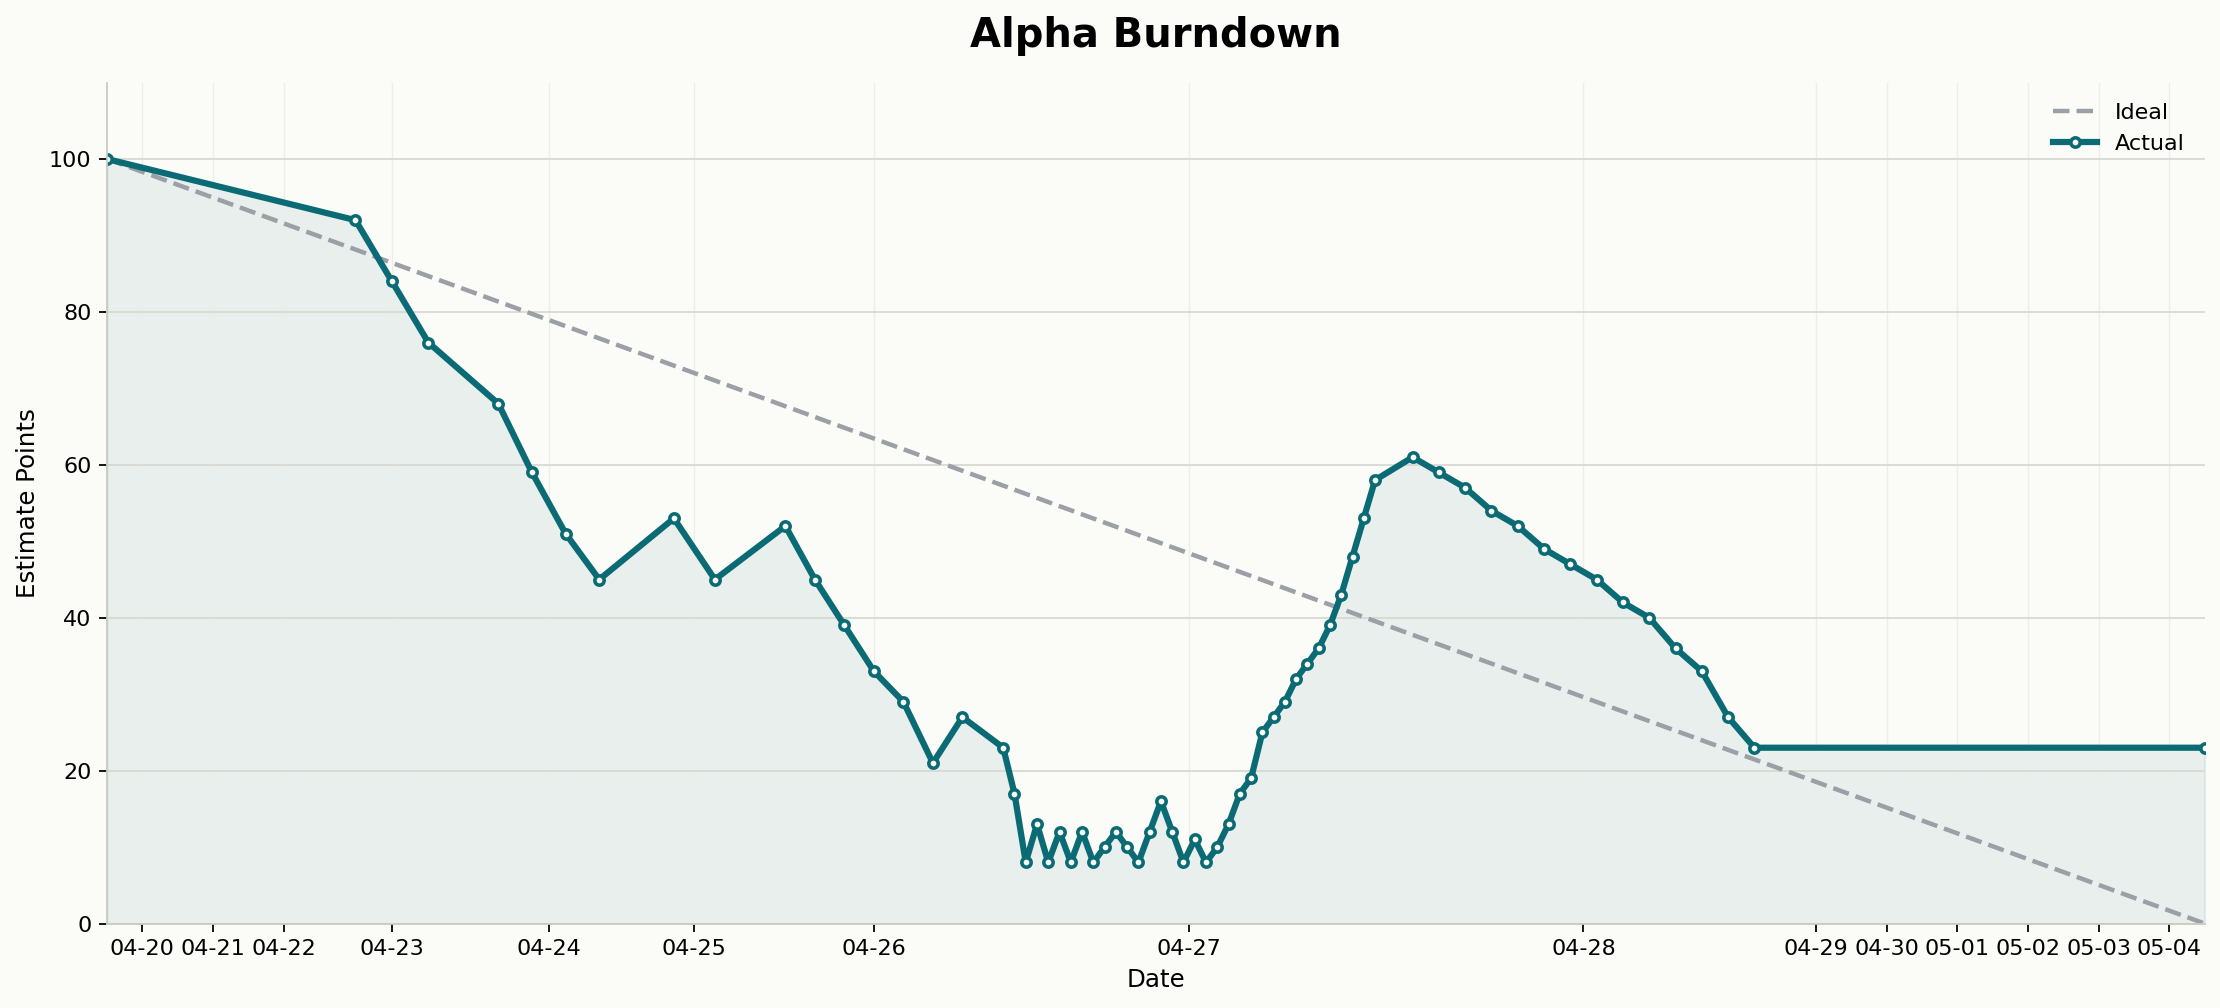
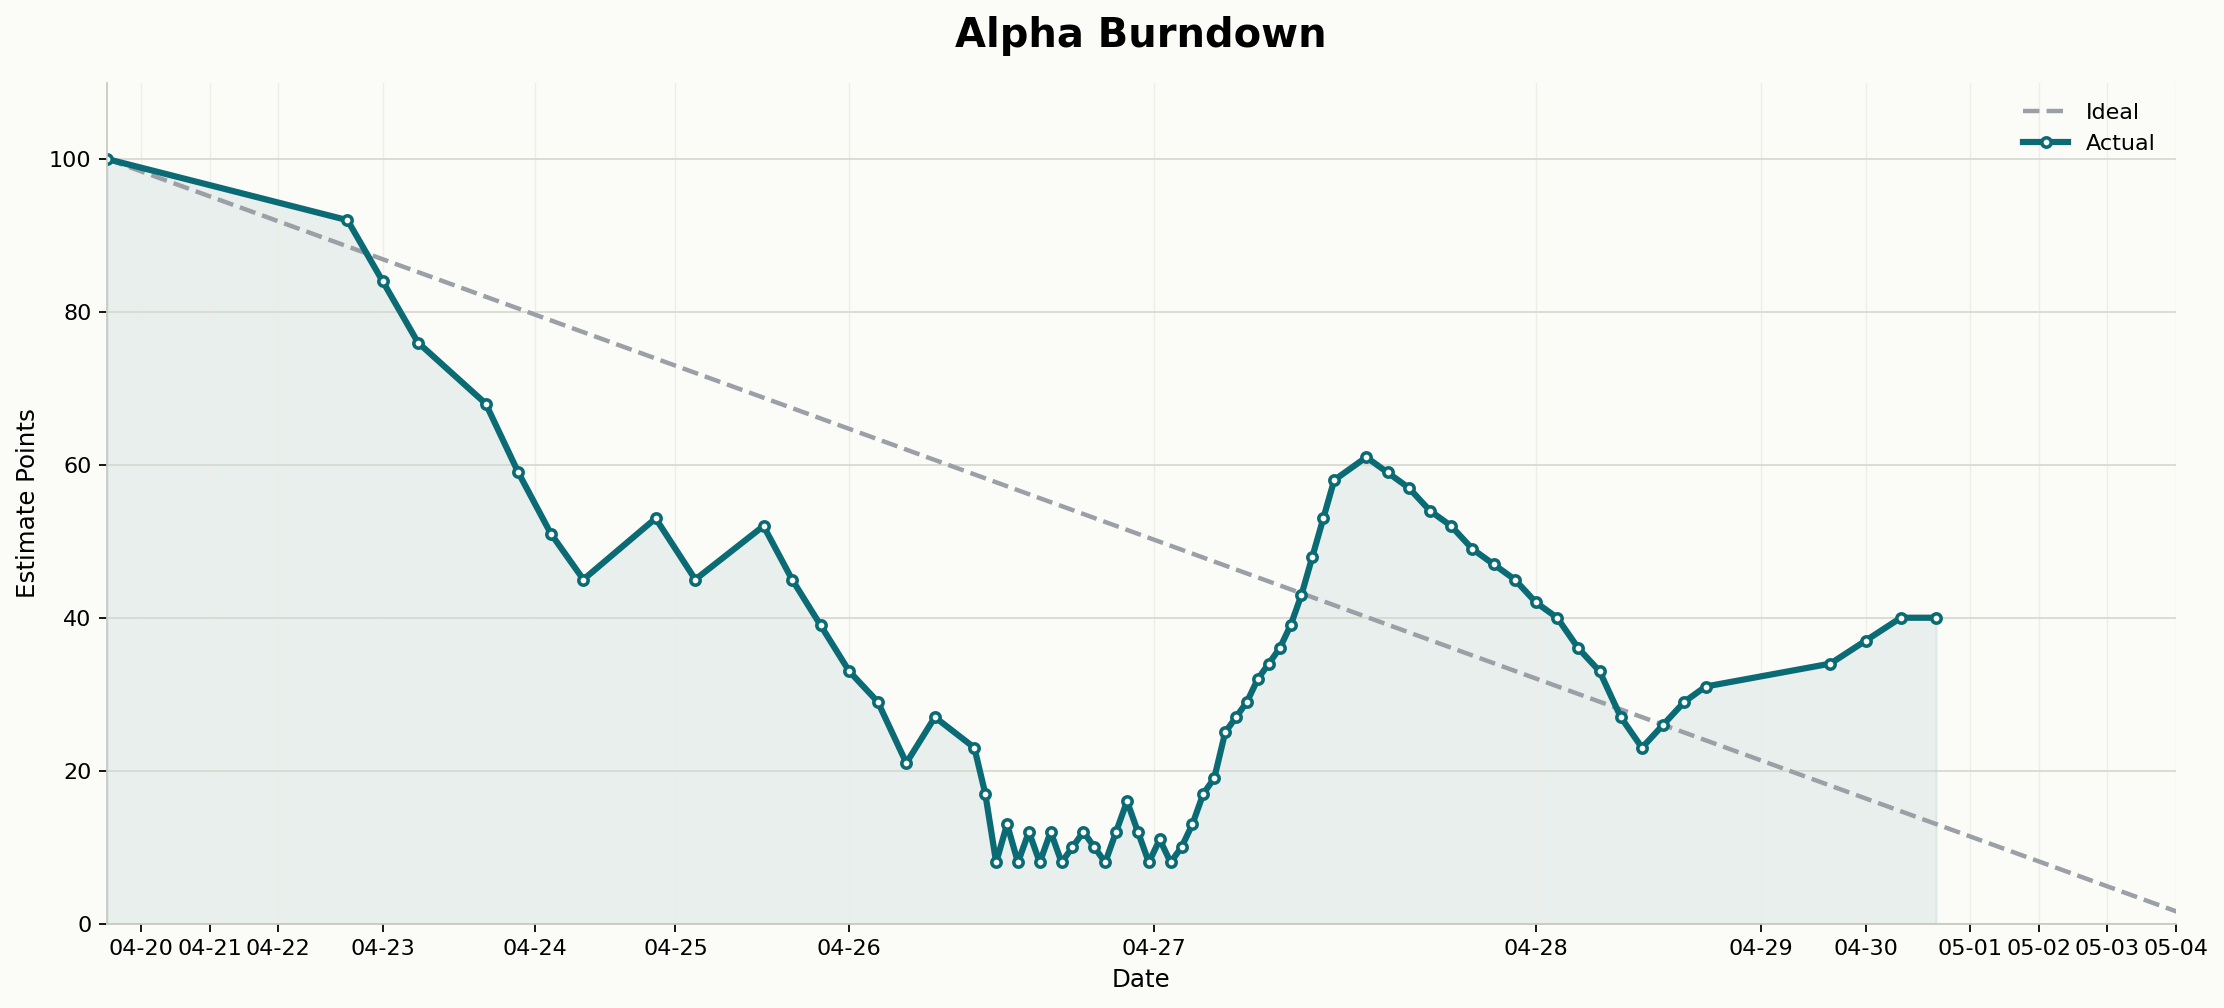
docs(燃尽图): 截止当前日期绘制实际线

diff --git a/alpha_burndown.py b/alpha_burndown.py
@@ -338,10 +338,12 @@ def burndown_events(
     start_date: dt.date,
     end_date: dt.date,
     initial_batch_date: dt.date,
+    as_of_date: dt.date,
     target_total: int,
 ) -> tuple[list[tuple[dt.datetime, int, str]], int]:
     start = dt.datetime.combine(start_date, dt.time.min, tzinfo=dt.timezone.utc)
     end = dt.datetime.combine(end_date, dt.time.max, tzinfo=dt.timezone.utc)
+    as_of_end = dt.datetime.combine(as_of_date, dt.time.max, tzinfo=dt.timezone.utc)
 
     events: list[tuple[dt.datetime, int, str]] = []
     for issue in issues:
@@ -350,11 +352,13 @@ def burndown_events(
             continue
         created = issue.created_at
         closed = issue.closed_at
+        if created > as_of_end:
+            continue
         if created.date() <= initial_batch_date:
             events.append((start, estimate, f"#{issue.number} existing"))
-        elif start < created <= end:
+        elif start < created <= min(end, as_of_end):
             events.append((created, estimate, f"#{issue.number} opened"))
-        if closed and start <= closed <= end:
+        if closed and start <= closed <= min(end, as_of_end):
             events.append((closed, -estimate, f"#{issue.number} closed"))
 
     events.sort(key=lambda item: (item[0], item[1]))
@@ -415,6 +419,7 @@ def actual_points(
     initial_total: int,
     start_date: dt.date,
     end_date: dt.date,
+    as_of_date: dt.date,
 ) -> tuple[list[float], list[int], list[float], list[str]]:
     starts, widths, event_positions, tick_positions, tick_labels = density_axis(events, start_date, end_date)
     x_values = [starts[start_date]]
@@ -424,9 +429,11 @@ def actual_points(
         current = max(0, current + delta)
         x_values.append(event_positions[index])
         y_values.append(current)
-    end_x = starts[end_date] + widths[end_date]
-    x_values.append(end_x)
-    y_values.append(current)
+    clamped_as_of = min(max(as_of_date, start_date), end_date)
+    as_of_x = starts[clamped_as_of] + widths[clamped_as_of]
+    if x_values[-1] < as_of_x:
+        x_values.append(as_of_x)
+        y_values.append(current)
     return x_values, y_values, tick_positions, tick_labels
 
 
@@ -436,6 +443,7 @@ def plot_burndown(
     start_date: dt.date,
     end_date: dt.date,
     initial_batch_date: dt.date,
+    as_of_date: dt.date,
     target_total: int,
     milestone_title: str,
 ) -> None:
@@ -446,9 +454,18 @@ def plot_burndown(
 
     load_font()
     output.parent.mkdir(parents=True, exist_ok=True)
-    events, initial_total = burndown_events(issues, start_date, end_date, initial_batch_date, target_total)
-    actual_x, actual_y, tick_positions, tick_labels = actual_points(events, initial_total, start_date, end_date)
-    ideal_x = [actual_x[0], actual_x[-1]]
+    as_of_date = min(max(as_of_date, start_date), end_date)
+    events, initial_total = burndown_events(issues, start_date, end_date, initial_batch_date, as_of_date, target_total)
+    actual_x, actual_y, tick_positions, tick_labels = actual_points(
+        events,
+        initial_total,
+        start_date,
+        end_date,
+        as_of_date,
+    )
+    starts, widths, _, _, _ = density_axis(events, start_date, end_date)
+    ideal_end_x = starts[end_date] + widths[end_date]
+    ideal_x = [actual_x[0], ideal_end_x]
     ideal_y = [target_total, 0]
 
     fig, ax = plt.subplots(figsize=(14, 6.4), dpi=160)
@@ -512,6 +529,11 @@ def main() -> int:
     parser.add_argument("--end-date", default="2026-05-04")
     parser.add_argument("--initial-batch-date", default="2026-04-23")
     parser.add_argument("--target-total", type=int, default=100)
+    parser.add_argument(
+        "--as-of-date",
+        default=dt.datetime.now(dt.timezone.utc).date().isoformat(),
+        help="last date included in the actual line; defaults to today",
+    )
     parser.add_argument("--output", default="burndowns/alpha_burndown.png")
     parser.add_argument("--json-output", default="burndowns/alpha_burndown_issues.json")
     parser.add_argument("--sync", action="store_true", help="write milestone and estimate labels back to GitHub")
@@ -543,6 +565,7 @@ def main() -> int:
             parse_date(args.start_date),
             parse_date(args.end_date),
             parse_date(args.initial_batch_date),
+            parse_date(args.as_of_date),
             args.target_total,
             str(milestone["title"]),
         )

diff --git a/README.md b/README.md
@@ -6,7 +6,7 @@
 
 由于仓库在 2026-04-23 才完成初始化，脚本会把 2026-04-23 及之前创建的首批 issue 视作 2026-04-20 已存在的初始工作量，并将这批 issue 的估点归一到总计 100。之后新增的 issue 不再凑总数，而是按新增问题本身的复杂度估点：小 bug 通常为 2-3 points，普通 UI 或数值调整为 2-4 points，较完整的新功能为 5-8 points。
 
-实际线使用连续折线。为了避免 issue 变动密集的日期挤在一起，横轴采用“事件密度缩放”：日期范围仍覆盖 04-20 到 05-04，但当天 issue 创建/关闭事件越多，该日期在图上占用的横向空间越大，低事件日期占用空间更少。
+实际线使用连续折线，并只绘制到图表生成日期；理想线仍覆盖完整 04-20 到 05-04 周期。为了避免 issue 变动密集的日期挤在一起，横轴采用“事件密度缩放”：日期范围仍覆盖 04-20 到 05-04，但当天 issue 创建/关闭事件越多，该日期在图上占用的横向空间越大，低事件日期占用空间更少。
 
 ## 文件结构
 